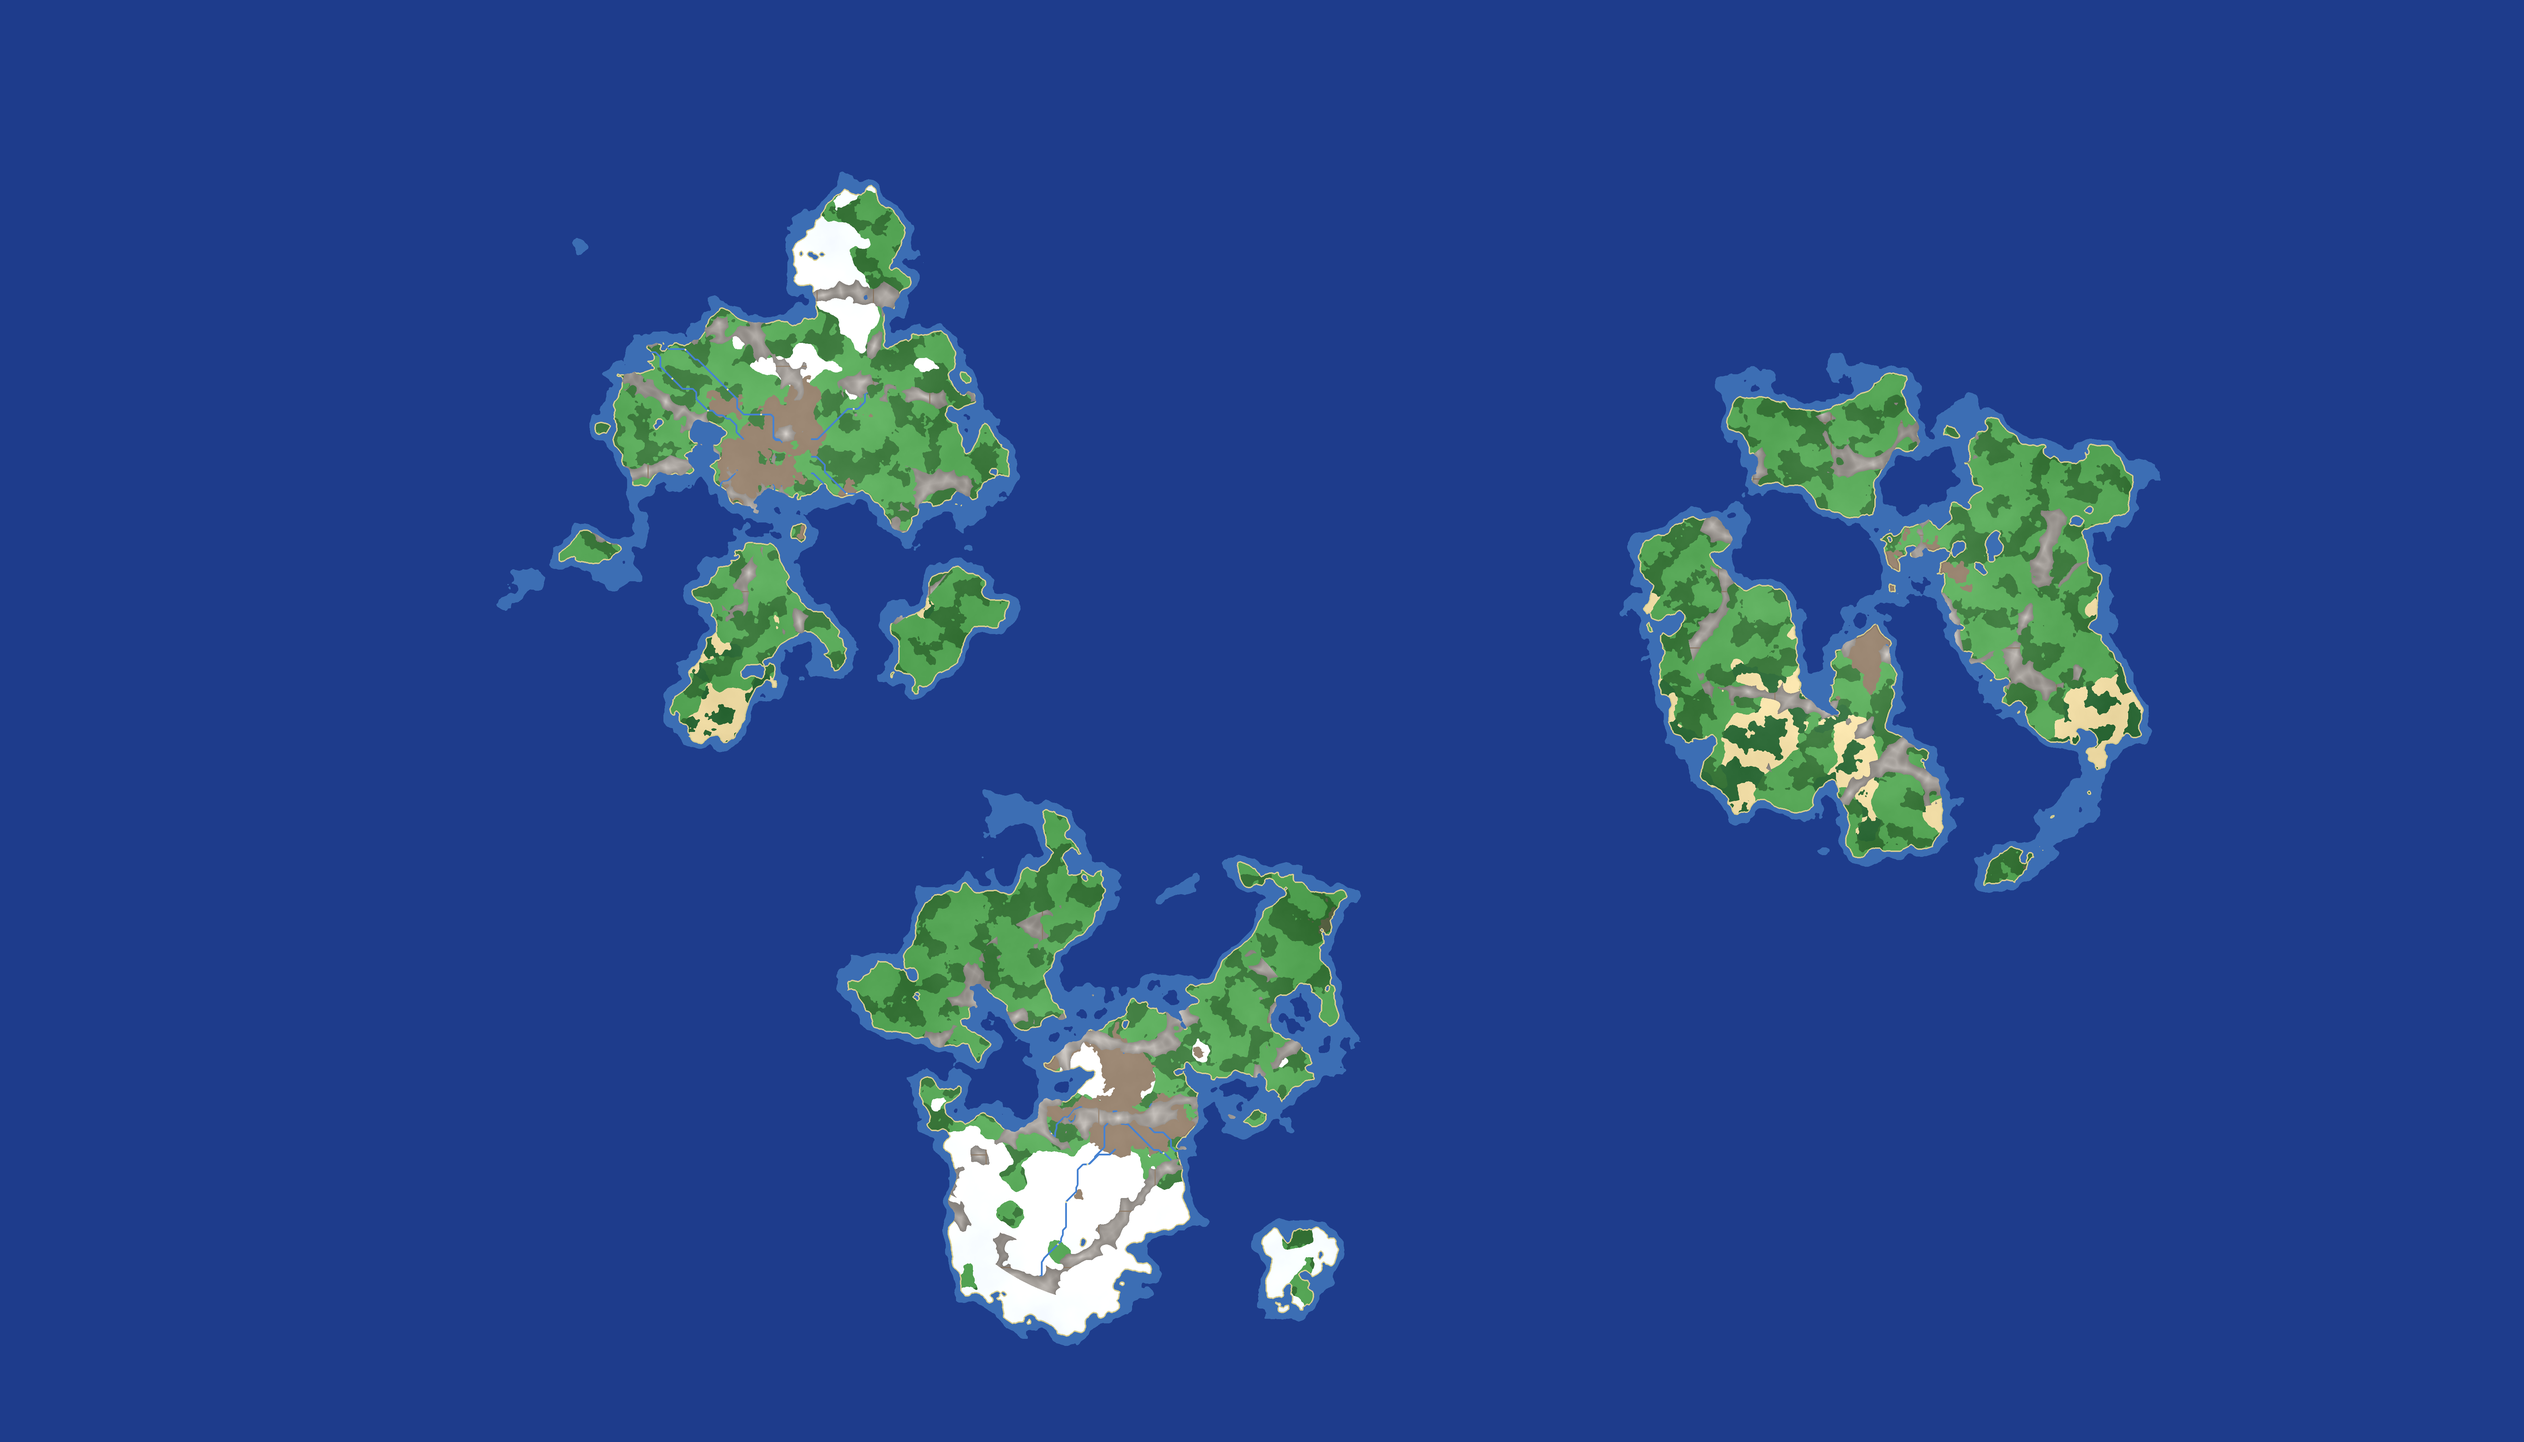
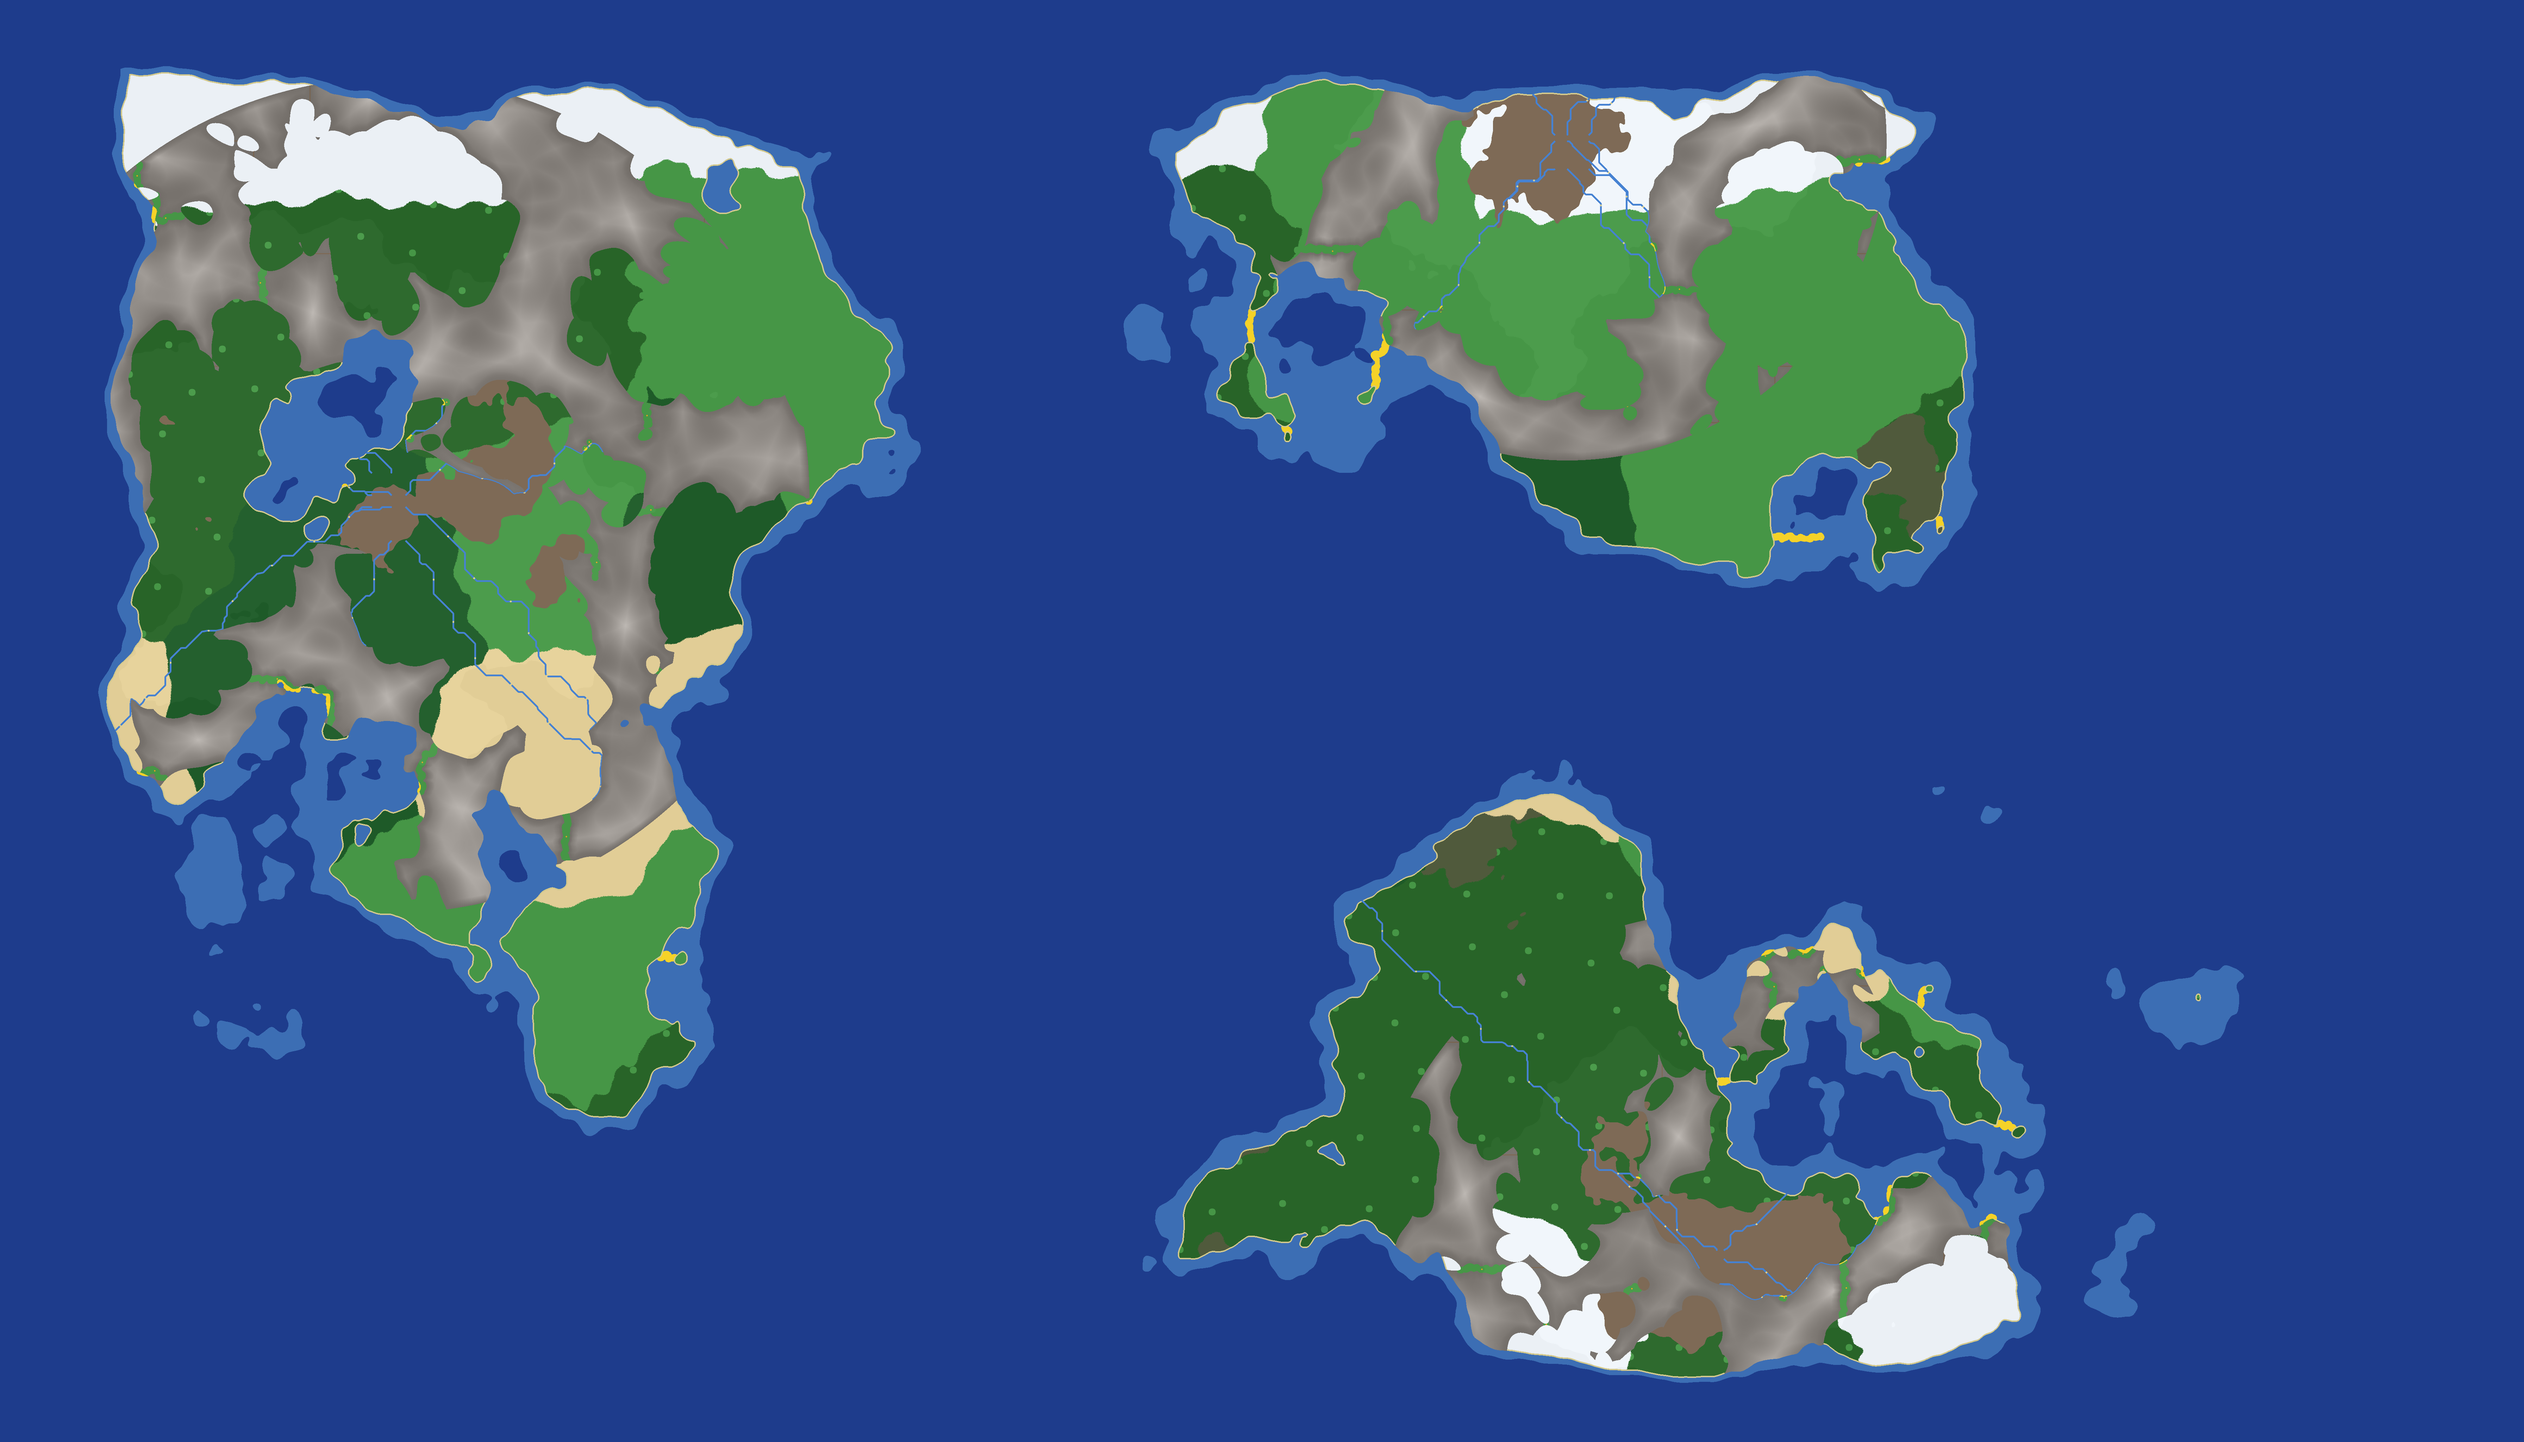
docs: refresh README screenshot with the connect + mountain-slope world
Replace docs/example.png with the britannia 3-continent preview (seed 1337,
--connect --mountain-slope 24 --clearings) showing graded foothills, rivers,
biome regions and the carved connecting passes/causeways; update the alt text.

diff --git a/README.md b/README.md
@@ -16,7 +16,7 @@ whole world is described by its seed plus a handful of options, and the output i
 No game assets are modified and no network access is needed; the only optional
 input is the client's `tiledata.mul` (read-only).
 
-![a generated world — three organic continents with climate biomes](docs/example.png)
+![a generated world — three organic continents with climate biomes, rivers, mountain ranges graded into foothills, and connecting passes/causeways](docs/example.png)
 
 ---
 
